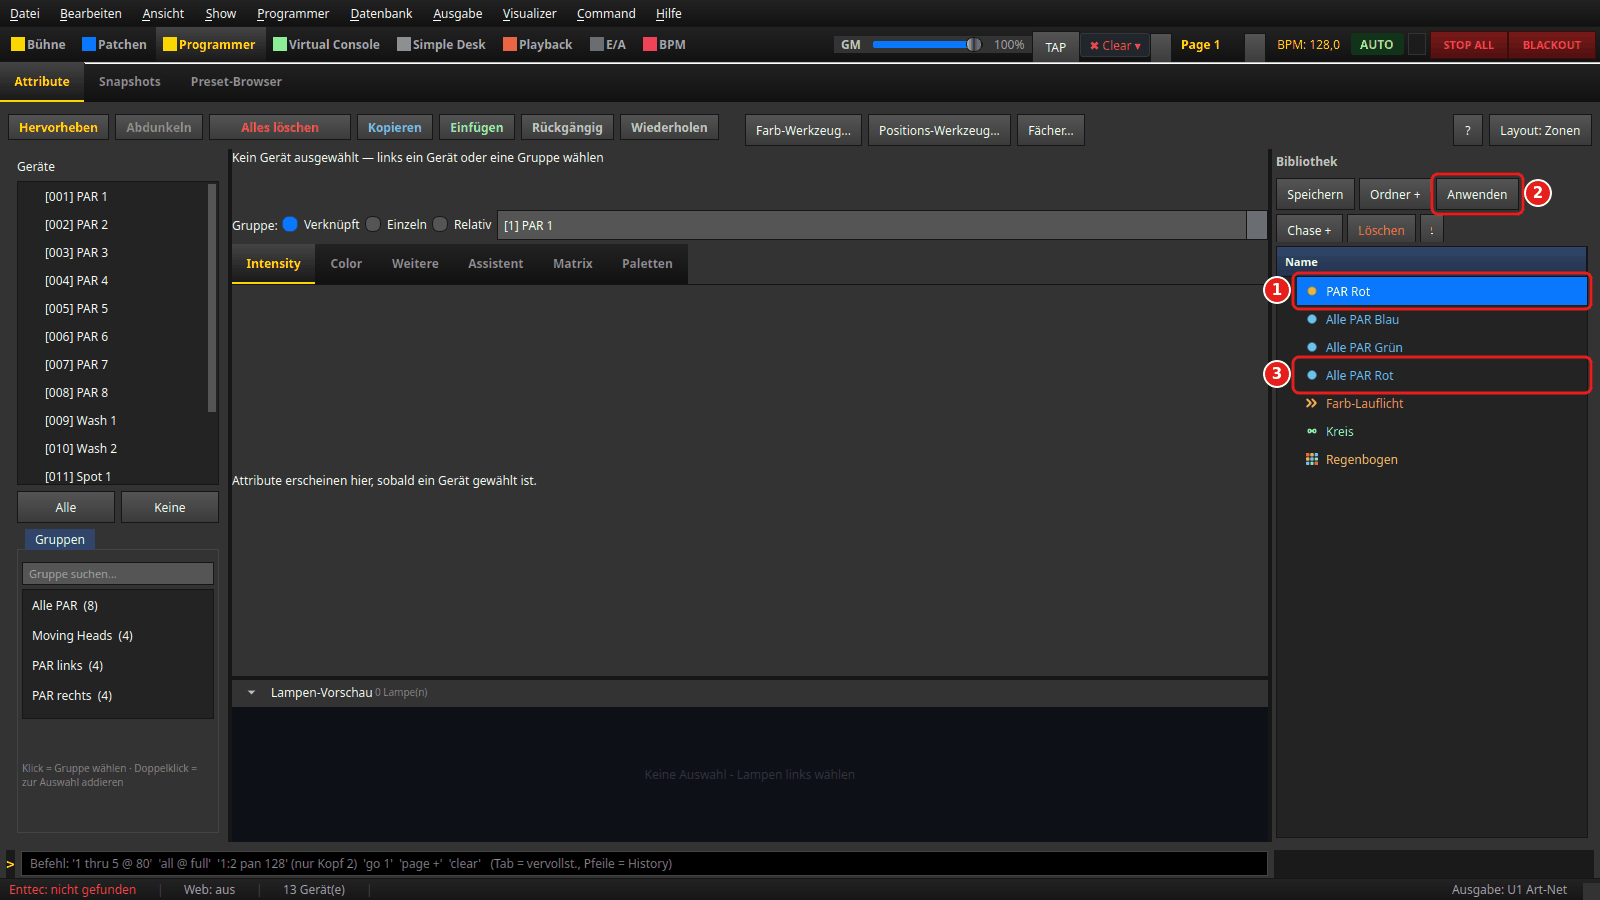
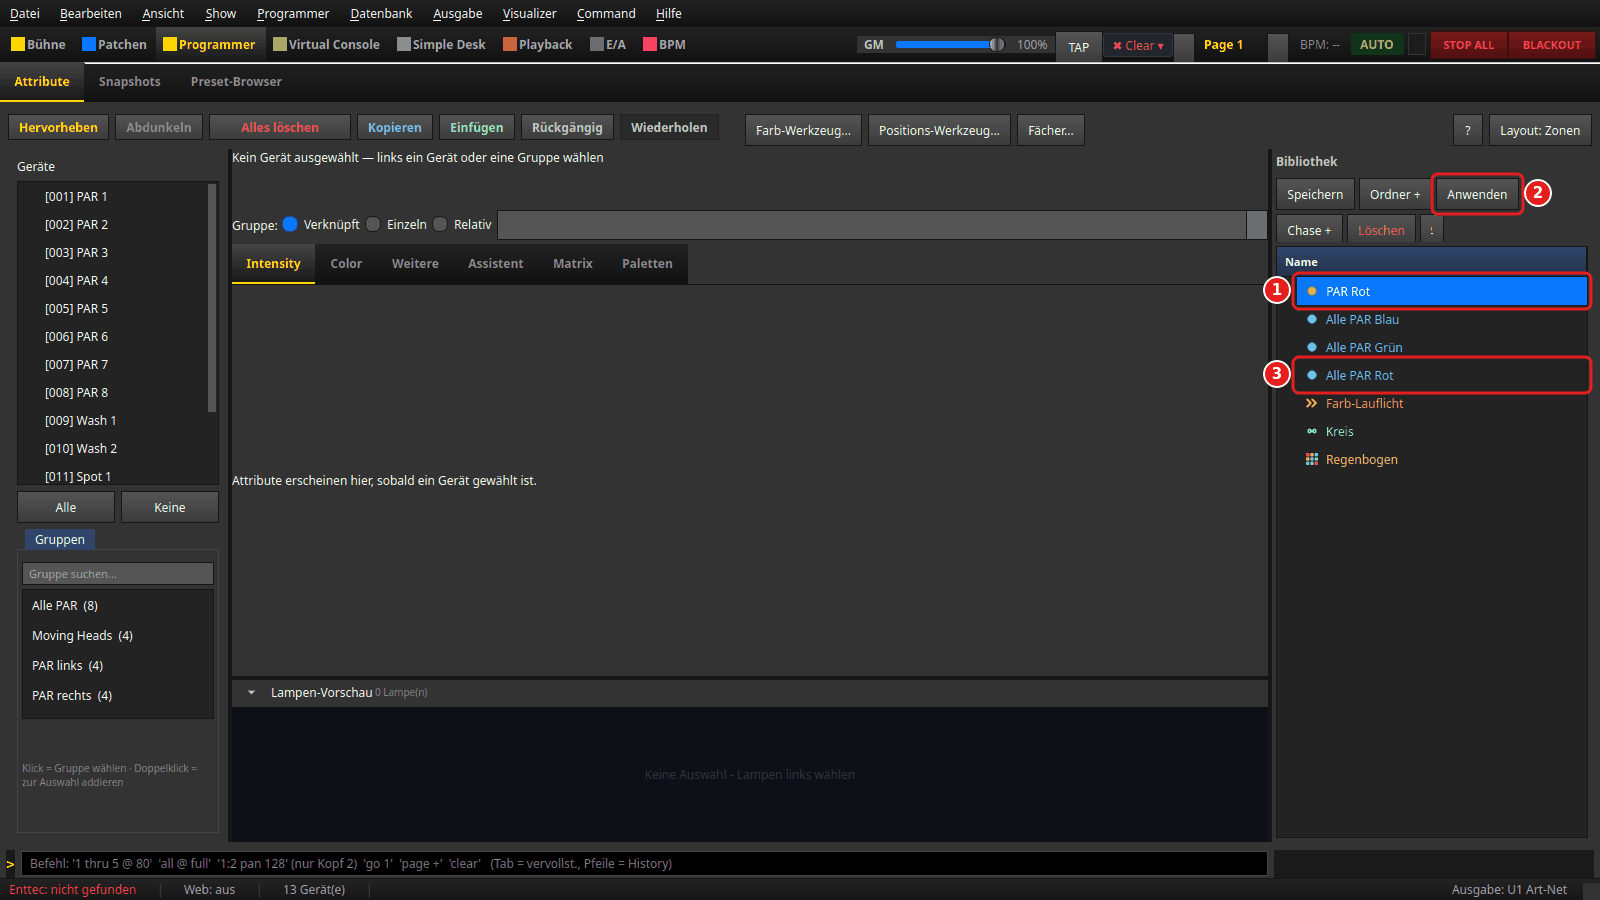
fix(tools): anleitungsbilder --alle startet jede Anleitung frisch (TOOL-8)
Mehrere Anleitungen liefen nacheinander im selben Hauptfenster; Auswahl,
Programmer-Werte, BPM 128, "Wiederholen" und Combo-Inhalte der vorigen
Anleitung landeten in der naechsten (falsche --pruefen-Abweichungen,
fremder Zustand in den Bildern). Jetzt laeuft jede Anleitung in einem
eigenen Unterprozess mit eigener Sandbox, eigenem Fenster und frisch
geladener Demo-Show. Test-Hook LIGHTOS_DOKU_SZENEN_ORDNER fuer
Test-Anleitungen ausserhalb des Pakets.

Szenen-Cues 01-06 und 08-10 neu gerendert: sie trugen BPM 128,
aktives "Wiederholen", die alte Einzelgeraete-Combo (UI-70) bzw.
GO-Tasten ohne Beschriftung aus dem Zustand der vorigen Anleitungen.

diff --git a/tests/test_anleitungsbilder.py b/tests/test_anleitungsbilder.py
@@ -399,6 +399,91 @@ class GifTest(unittest.TestCase):
                     self.assertEqual(im.info.get("loop"), 0, f"{name}: keine Endlosschleife")
                     self.assertGreater(im.n_frames, 1, f"{name}: nur ein Frame")
         self.assertGreater(gefunden, 0)
+# ── TOOL-8: jede Anleitung startet frisch ─────────────────────────────────────
+
+_SZENE_HINTERLASSEN = """
+from anleitungsbilder.runner import Szene
+
+
+def _zustand_hinterlassen(ui):
+    from src.core.engine.bpm_manager import BpmMode, get_bpm_manager
+    pars = ui.info["pars"]
+    ui.wert(pars, "intensity", 255)
+    ui.win._programmer_view._select_fids(pars[:4])
+    mgr = get_bpm_manager()
+    mgr.set_mode(BpmMode.MANUAL)
+    mgr.set_manual_bpm(128.0)
+    ui.pump(0.1)
+
+
+SZENEN = [Szene("t8_hinterlassen", sektion="Programmer", unterreiter="Attribute",
+                vorher=_zustand_hinterlassen, warte_s=0.1)]
+"""
+
+_SZENE_FRISCH = """
+from anleitungsbilder.runner import Szene, SzenenFehler
+
+
+def _frisch(ui):
+    from src.core.engine.bpm_manager import BpmMode, get_bpm_manager
+    pv = ui.win._programmer_view
+    mgr = get_bpm_manager()
+    reste = []
+    if list(ui.state.selected_fids or []):
+        reste.append("Auswahl %r" % list(ui.state.selected_fids))
+    if any(ui.state.programmer.values()):
+        reste.append("Programmer-Werte")
+    if pv._editor_fids or pv._fixture_combo.count():
+        reste.append("Programmer-Ansicht %r" % pv._editor_fids)
+    if mgr.mode == BpmMode.MANUAL and abs(mgr.bpm - 128.0) < 0.01:
+        reste.append("BPM 128 manuell")
+    if reste:
+        raise SzenenFehler("Zustand der vorigen Anleitung: " + ", ".join(reste))
+
+
+SZENEN = [Szene("t8_frisch", sektion="Programmer", unterreiter="Attribute",
+                vorher=_frisch, warte_s=0.1)]
+"""
+
+
+class AlleFrischTest(unittest.TestCase):
+    """TOOL-8: ``--alle`` lief alle Anleitungen im SELBEN Fenster; die zweite
+    sah Auswahl, Programmer-Werte und BPM 128 der ersten. Zwei Test-Anleitungen
+    (ueber ``LIGHTOS_DOKU_SZENEN_ORDNER``, nicht im Paket): die erste
+    hinterlaesst Zustand, die zweite bricht ab, wenn sie ihn sieht."""
+
+    def test_zweite_anleitung_sieht_den_zustand_der_ersten_nicht(self):
+        import shutil
+        ordner = tempfile.mkdtemp(prefix="lightos_abtest_szenen_")
+        ausgabe = tempfile.mkdtemp(prefix="lightos_abtest_")
+        try:
+            for name, text in (("t8a_hinterlassen", _SZENE_HINTERLASSEN),
+                               ("t8b_frisch", _SZENE_FRISCH)):
+                with open(os.path.join(ordner, f"szenen_{name}.py"), "w",
+                          encoding="utf-8") as f:
+                    f.write(text)
+            env = dict(os.environ)
+            env["PYTHONDONTWRITEBYTECODE"] = "1"
+            env["LIGHTOS_DOKU_SZENEN_ORDNER"] = ordner
+            lauf = subprocess.run(
+                [sys.executable, os.path.join(TOOLS, "anleitungsbilder.py"),
+                 "--alle", "--nur", "t8_hinterlassen,t8_frisch",
+                 "--ausgabe", ausgabe],
+                cwd=REPO, env=env, capture_output=True, text=True, timeout=300)
+            log = lauf.stdout[-4000:] + "\n--- stderr ---\n" + lauf.stderr[-3000:]
+            self.assertNotIn("Zustand der vorigen Anleitung", lauf.stdout, log)
+            self.assertEqual(lauf.returncode, 0, log)
+            for name, szene in (("t8a_hinterlassen", "t8_hinterlassen"),
+                                ("t8b_frisch", "t8_frisch")):
+                self.assertTrue(os.path.isfile(
+                    os.path.join(ausgabe, name, f"{szene}.png")), log)
+            # Jede Anleitung hatte ihre eigene Sandbox (= eigenen Prozess).
+            sandboxen = {json.loads(z[len("SANDBOX "):])["cwd"]
+                         for z in lauf.stdout.splitlines() if z.startswith("SANDBOX ")}
+            self.assertEqual(len(sandboxen), 2, log)
+        finally:
+            shutil.rmtree(ordner, ignore_errors=True)
+            shutil.rmtree(ausgabe, ignore_errors=True)
 
 
 if __name__ == "__main__":

diff --git a/tools/anleitungsbilder.py b/tools/anleitungsbilder.py
@@ -65,6 +65,51 @@ def _argumente(argv):
     return ap.parse_args(argv)
 
 
+def _je_anleitung_ein_prozess(args, auftraege, nur) -> int:
+    """TOOL-8: jede Anleitung in einem eigenen Unterprozess dieses Werkzeugs.
+
+    Der Unterprozess bekommt genau EINE Anleitung und laeuft damit den
+    gewohnten Einzelweg (eigene Sandbox, Selbstpruefung, Abgleich der echten
+    Datenorte). Anleitungen ohne eine der ``--nur``-Szenen werden ausgelassen.
+    Rueckgabe: der schlechteste Exit-Code (0 < 1 Szene nicht baubar < 2 Fehler
+    < 3 echte Datenorte veraendert).
+    """
+    import subprocess
+    import time
+    skript = os.path.abspath(__file__)
+    ausgabe = args.ausgabe
+    if ausgabe and not os.path.isabs(ausgabe):
+        ausgabe = os.path.abspath(os.path.join(sandbox.REPO, ausgabe))
+    code = 0
+    t0 = time.time()
+    for name, szenen, _ziel in auftraege:
+        eigene = sorted(s.name for s in szenen if s.name in nur) if nur else []
+        if nur and not eigene:
+            continue
+        befehl = [sys.executable, skript, name]
+        if args.pruefen:
+            befehl.append("--pruefen")
+        if ausgabe:
+            befehl += ["--ausgabe", ausgabe]
+        if args.behalten:
+            befehl.append("--behalten")
+        if eigene:
+            befehl += ["--nur", ",".join(eigene)]
+        print(f"[anleitungsbilder] == {name} (eigener Prozess) ==", flush=True)
+        t = time.time()
+        rc = subprocess.run(befehl, cwd=sandbox.REPO).returncode
+        print(f"[anleitungsbilder] {name}: Exit {rc} nach {time.time() - t:.1f} s",
+              flush=True)
+        code = max(code, rc if rc in (0, 1, 2, 3) else 2)
+    print(f"[anleitungsbilder] {len(auftraege)} Anleitung(en) in "
+          f"{time.time() - t0:.1f} s", flush=True)
+    if args.pruefen:
+        print("[anleitungsbilder] Pruefung gesamt: " + (
+            "alle Szenen baubar." if code == 0 else "NICHT alles baubar, s. o."),
+            flush=True)
+    return code
+
+
 def main(argv=None) -> int:
     args = _argumente(sys.argv[1:] if argv is None else argv)
     from anleitungsbilder import runner
@@ -95,6 +140,16 @@ def main(argv=None) -> int:
                     extra += f" [GIF, {len(s.frames)} Frames]"
                 print(f"  {s.name:<22} {s.titel}{extra}")
         return 0
+
+    # TOOL-8: mehrere Anleitungen -> je Anleitung ein eigener Prozess (frische
+    # Sandbox, frisches Hauptfenster, frische Demo-Show). Im selben Fenster
+    # nacheinander trug jede Anleitung den Zustand der vorigen weiter
+    # (Programmer-Auswahl, BPM 128, „Wiederholen" aktiv, Combo-Inhalte): die
+    # Bilder zeigten fremden Zustand, ``--pruefen`` meldete falsche
+    # Abweichungen. Ein Zuruecksetzen von Hand haette jeden neuen Zustand
+    # einzeln kennen muessen; der eigene Prozess vergisst nichts.
+    if len(auftraege) > 1:
+        return _je_anleitung_ein_prozess(args, auftraege, nur)
 
     # Echte Datenorte VOR der Umlenkung erfassen, danach nie wieder anfassen.
     orte = sandbox.echte_datenorte()

diff --git a/tools/anleitungsbilder/runner.py b/tools/anleitungsbilder/runner.py
@@ -12,6 +12,7 @@ from __future__ import annotations
 
 import hashlib
 import importlib
+import importlib.util
 import io
 import json
 import os
@@ -116,9 +117,21 @@ GIF_ZIEL = 1024 * 1024               # darueber: Hinweis im Lauf
 
 # ── Szenen-Dateien finden ───────────────────────────────────────────────────
 
+# TOOL-8: zusaetzlicher Ordner mit ``szenen_*.py`` — nur fuer Tests (eine
+# Anleitung, die Zustand hinterlaesst, und eine, die ihn pruefen soll), damit
+# keine Test-Szene im Paket liegt und im echten ``--alle`` mitliefe.
+ENV_SZENEN_ORDNER = "LIGHTOS_DOKU_SZENEN_ORDNER"
+
+
+def _extra_ordner() -> str | None:
+    pfad = os.environ.get(ENV_SZENEN_ORDNER, "").strip()
+    return pfad if pfad and os.path.isdir(pfad) else None
+
+
 def anleitungen() -> list[str]:
-    return sorted(m.name[len("szenen_"):] for m in pkgutil.iter_modules([PAKET])
-                  if m.name.startswith("szenen_"))
+    orte = [PAKET] + ([_extra_ordner()] if _extra_ordner() else [])
+    return sorted({m.name[len("szenen_"):] for m in pkgutil.iter_modules(orte)
+                   if m.name.startswith("szenen_")})
 
 
 def lade_szenen(anleitung: str):
@@ -126,7 +139,16 @@ def lade_szenen(anleitung: str):
     if anleitung not in anleitungen():
         raise SystemExit(f"[anleitungsbilder] Unbekannte Anleitung '{anleitung}'. "
                          f"Vorhanden: {', '.join(anleitungen()) or '-'}")
-    mod = importlib.import_module(f"anleitungsbilder.szenen_{anleitung}")
+    extra = _extra_ordner()
+    datei = os.path.join(extra, f"szenen_{anleitung}.py") if extra else ""
+    if datei and os.path.isfile(datei) and not os.path.isfile(
+            os.path.join(PAKET, f"szenen_{anleitung}.py")):
+        spec = importlib.util.spec_from_file_location(
+            f"anleitungsbilder_extra_szenen_{anleitung}", datei)
+        mod = importlib.util.module_from_spec(spec)
+        spec.loader.exec_module(mod)
+    else:
+        mod = importlib.import_module(f"anleitungsbilder.szenen_{anleitung}")
     szenen = list(getattr(mod, "SZENEN"))
     namen = [s.name for s in szenen]
     doppelt = {n for n in namen if namen.count(n) > 1}

diff --git a/docs/ANLEITUNGSBILDER.md b/docs/ANLEITUNGSBILDER.md
@@ -16,6 +16,12 @@ venv/bin/python tools/anleitungsbilder.py --liste              # Szenen anzeigen
 
 Ein Lauf dauert rund 12 Sekunden (davon 5–6 Sekunden für Fenster und Demo-Show).
 
+Mehrere Anleitungen (`--alle` oder mehrere Namen) laufen **je in einem eigenen Prozess**:
+jede bekommt eine frische Sandbox, ein frisches Hauptfenster und eine frisch geladene
+Demo-Show. Was eine Anleitung einstellt (Programmer-Auswahl, Tempo, Playback-Optionen …),
+sieht die nächste so nicht mehr. Das kostet je Anleitung die 5–6 Sekunden Aufbau
+zusätzlich; dafür entsprechen Bilder und `--pruefen` genau dem Einzellauf der Anleitung.
+
 ## Was wo liegt
 
 | Datei | Inhalt |
@@ -134,7 +140,10 @@ der Kern den, der am wenigsten verdeckt, und meldet im Lauf
 Die UI-API in `vorher`: `ui.sektion(...)`, `ui.reiter(text)`, `ui.waehle(fids)`,
 `ui.wert(fids, attribut, wert)`, `ui.finde(finder)`, `ui.pump(sekunden)` sowie
 `ui.win` (Hauptfenster), `ui.state` und `ui.info`. Die Szenen laufen der Reihe nach
-im selben Fenster: was eine Szene einstellt, sieht die nächste noch.
+im selben Fenster: was eine Szene einstellt, sieht die nächste *derselben Anleitung*
+noch. Eine andere Anleitung startet dagegen immer frisch (eigener Prozess).
+Zusätzliche `szenen_*.py` außerhalb des Pakets (nur für Tests) liest das Werkzeug aus
+dem Ordner in `LIGHTOS_DOKU_SZENEN_ORDNER`.
 
 Neue Anleitung anlegen, Szenen schreiben, dann:
 
